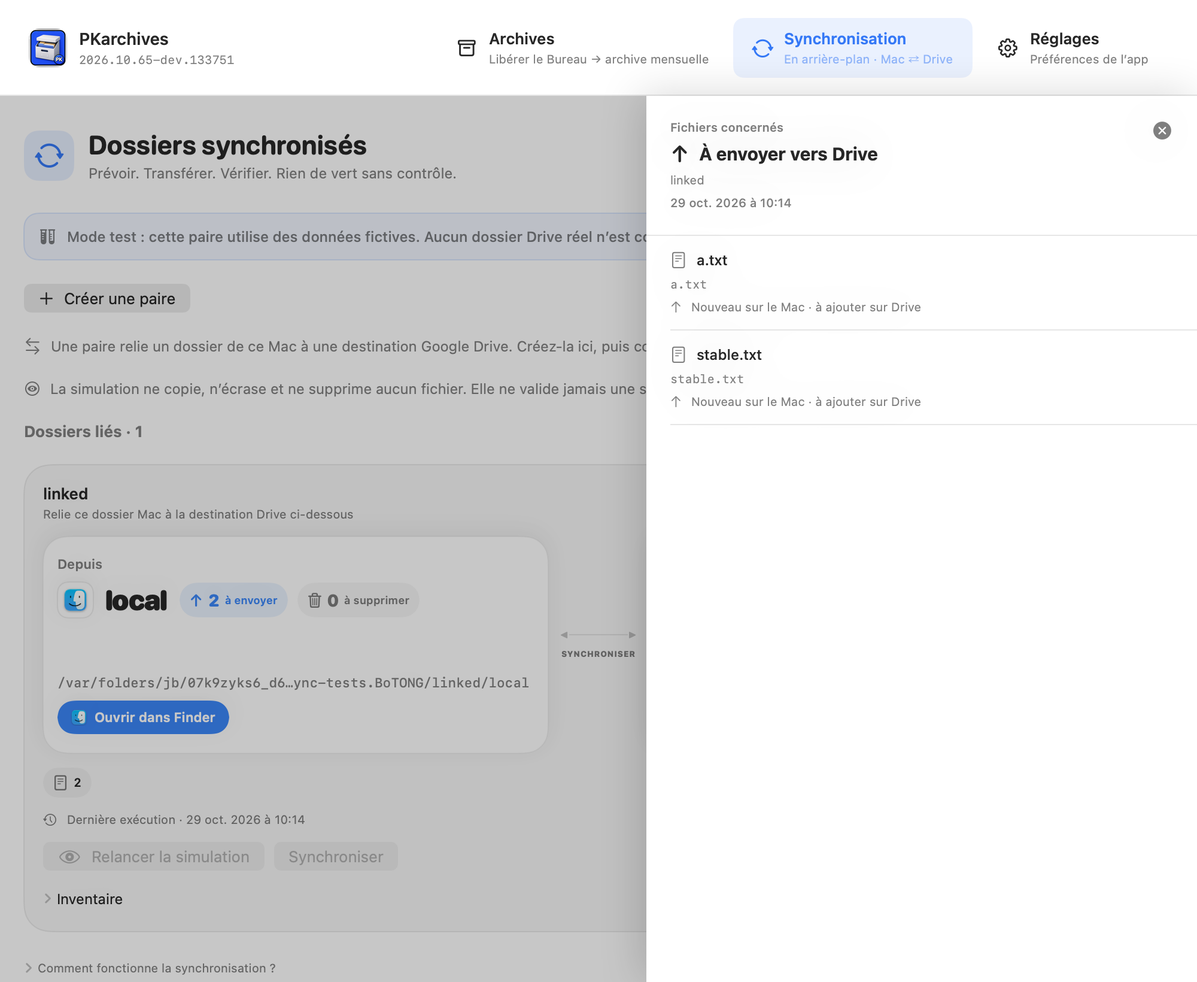
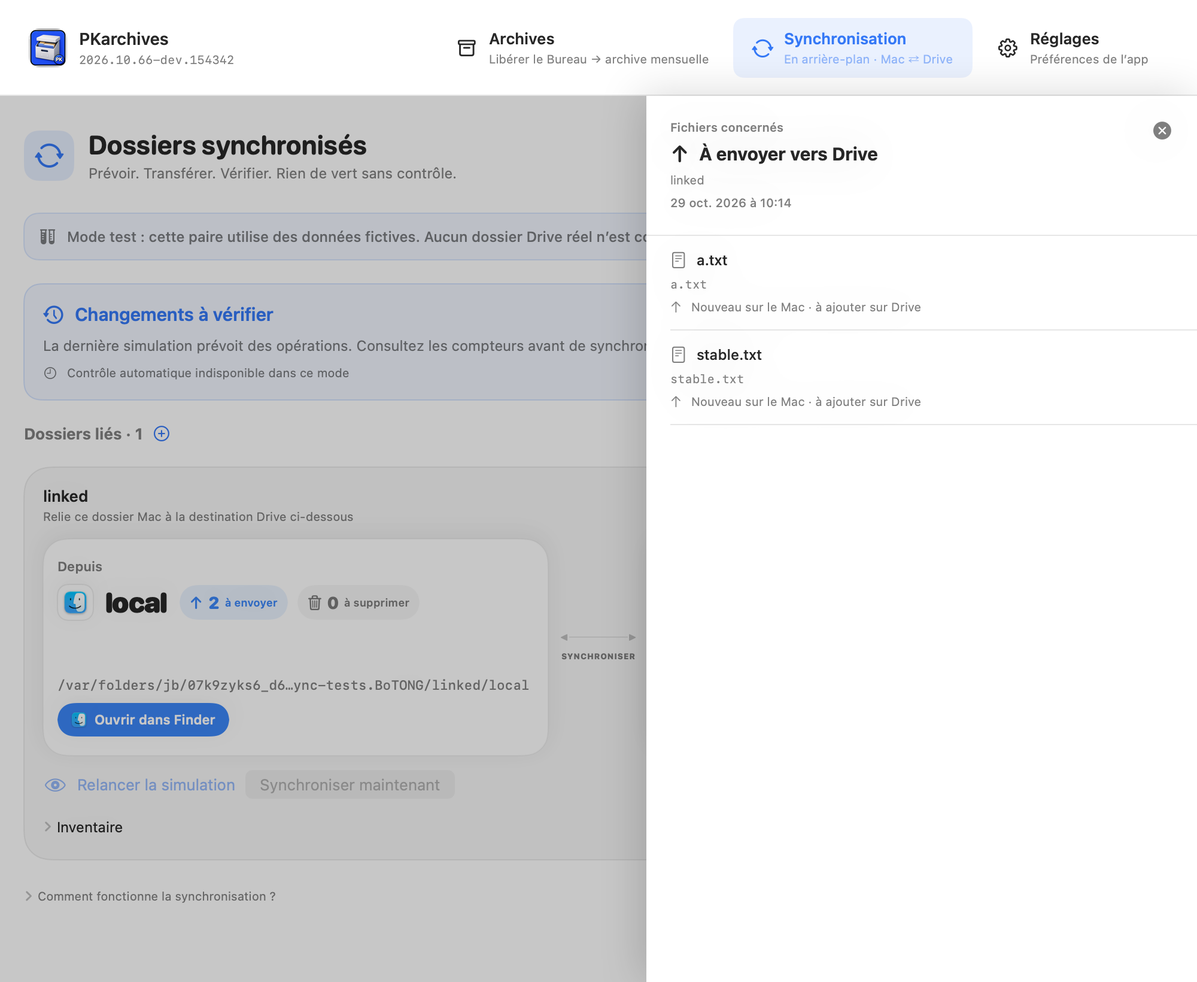
FIX: clarifier le statut et écarter les simulations périmées

diff --git a/src/macos/PKSync.swift b/src/macos/PKSync.swift
@@ -90,6 +90,22 @@ private let syncStrings: [String: [String]] = [
     "pairs": ["Paires", "Pairs", "Parejas", "Paare"],
     "linkedFolders": ["Dossiers liés", "Linked folders", "Carpetas vinculadas", "Verknüpfte Ordner"],
     "viewHistory": ["Voir l’historique", "View history", "Ver historial", "Verlauf anzeigen"],
+    "status.checked": ["À jour au dernier contrôle", "Up to date at last check", "Al día en la última comprobación", "Beim letzten Abgleich aktuell"],
+    "status.checkedNote": ["Les fichiers inclus ont été vérifiés à cette date. Les changements ultérieurs seront contrôlés au prochain passage.", "Included files were verified then. Later changes will be checked on the next pass.", "Los archivos incluidos se verificaron entonces. Los cambios posteriores se comprobarán después.", "Enthaltene Dateien wurden damals geprüft. Spätere Änderungen werden beim nächsten Lauf geprüft."],
+    "status.action": ["Action nécessaire", "Action needed", "Acción necesaria", "Aktion erforderlich"],
+    "status.pending": ["Changements à vérifier", "Changes awaiting check", "Cambios pendientes de comprobar", "Änderungen warten auf Prüfung"],
+    "status.previewChanges": ["La dernière simulation prévoit des opérations. Consultez les compteurs avant de synchroniser.", "The latest preview plans changes. Review the counts before syncing.", "La última simulación prevé cambios. Revise los contadores antes de sincronizar.", "Die letzte Vorschau sieht Änderungen vor. Vor dem Abgleich die Zähler prüfen."],
+    "status.previewOnly": ["Simulation uniquement", "Preview only", "Solo simulación", "Nur Vorschau"],
+    "status.previewOnlyNote": ["Aucun transfert automatique tant qu’une première synchronisation réelle n’a pas été confirmée.", "No automatic transfer until a first real sync is confirmed.", "No hay transferencia automática hasta confirmar la primera sincronización real.", "Keine automatische Übertragung vor Bestätigung des ersten echten Abgleichs."],
+    "status.never": ["Jamais vérifié", "Never verified", "Nunca verificado", "Nie geprüft"],
+    "status.running": ["Synchronisation en cours", "Sync in progress", "Sincronización en curso", "Synchronisierung läuft"],
+    "status.simulating": ["Simulation en cours", "Preview in progress", "Simulación en curso", "Vorschau läuft"],
+    "status.paused": ["Synchronisation en pause", "Sync paused", "Sincronización pausada", "Synchronisierung pausiert"],
+    "status.lastChecked": ["Dernier contrôle vérifié", "Last verified check", "Última comprobación verificada", "Letzter bestätigter Abgleich"],
+    "status.lastTransfers": ["Dernière synchronisation : %d envoyés · %d rapatriés · %d supprimés", "Last sync: %d sent · %d received · %d deleted", "Última sincronización: %d enviados · %d recibidos · %d borrados", "Letzter Abgleich: %d gesendet · %d empfangen · %d gelöscht"],
+    "status.cadence": ["Automatique tant que l’app est ouverte · Mac : 45 s après un changement · Drive : environ chaque heure et au réveil", "Automatic while the app is open · Mac: 45 s after a change · Drive: about hourly and on wake", "Automático con la app abierta · Mac: 45 s tras un cambio · Drive: cada hora y al despertar", "Automatisch bei geöffneter App · Mac: 45 s nach Änderung · Drive: etwa stündlich und nach dem Aufwachen"],
+    "status.cadenceOff": ["Contrôle automatique indisponible dans ce mode", "Automatic checks unavailable in this mode", "Comprobación automática no disponible en este modo", "Automatische Prüfung in diesem Modus nicht verfügbar"],
+    "syncNow": ["Synchroniser maintenant", "Sync now", "Sincronizar ahora", "Jetzt synchronisieren"],
     "resimulate": ["Relancer la simulation", "Re-run preview", "Repetir simulación", "Vorschau erneut"],
     "comparison": ["Comparaison Mac ↔ Drive", "Mac ↔ Drive comparison", "Comparación Mac ↔ Drive", "Vergleich Mac ↔ Drive"],
     "previewOf": ["Comparaison du", "Comparison from", "Comparación del", "Vergleich vom"],
@@ -553,29 +569,37 @@ struct SyncSectionView: View {
                 if let error = engine.storageError {
                     Label(error, systemImage: "exclamationmark.triangle.fill").foregroundStyle(.red).textSelection(.enabled)
                 }
-                HStack {
+                if engine.pairs.isEmpty {
                     Button { editing = SyncPair() } label: { Label(syncText("createPair"), systemImage: "plus") }
                         .buttonStyle(.borderedProminent).disabled(engine.busy || engine.storageError != nil)
-                    Spacer()
-                    Button { engine.syncAll(dryRun: true) } label: { Label(syncText("simulateAll"), systemImage: "eye") }
-                        .disabled(isQAScreen || engine.busy || !engine.pairs.contains(where: { $0.enabled && engine.cooldownUntil(for: $0) == nil }))
-                    Menu {
-                        Button(syncText("all")) { engine.syncAll() }.disabled(isQAScreen || !engine.pairs.contains(where: { $0.enabled && engine.cooldownUntil(for: $0) == nil }))
-                        Button(syncText("retryAll")) { engine.retryFailed() }.disabled(isQAScreen)
-                        if engine.isPaused { Button(syncText("resume")) { engine.resume() } }
-                        else { Button(syncText("pause")) { engine.pauseForHours(1) } }
-                    } label: { Label(syncText("globalActions"), systemImage: "ellipsis") }
+                    Label(syncText("pairSetupHelp"), systemImage: "arrow.left.arrow.right")
+                        .font(.callout).foregroundStyle(.secondary).fixedSize(horizontal: false, vertical: true)
+                    Label(syncText("safe"), systemImage: "eye.circle")
+                        .font(.callout).foregroundStyle(.secondary).fixedSize(horizontal: false, vertical: true)
+                } else {
+                    globalStatus
                 }
-                Label(syncText("pairSetupHelp"), systemImage: "arrow.left.arrow.right")
-                    .font(.callout).foregroundStyle(.secondary).fixedSize(horizontal: false, vertical: true)
-                Label(syncText("safe"), systemImage: "eye.circle")
-                    .font(.callout).foregroundStyle(.secondary).fixedSize(horizontal: false, vertical: true)
                 if engine.busy { progressBanner }
                 HStack {
                     if tab == "pairs" {
                         Text("\(syncText("linkedFolders")) · \(engine.pairs.count)")
                             .font(.headline).foregroundStyle(.secondary)
+                        Button { editing = SyncPair() } label: { Image(systemName: "plus.circle") }
+                            .buttonStyle(.plain).foregroundStyle(Color.accentColor)
+                            .accessibilityLabel(syncText("createPair"))
+                            .disabled(engine.busy || engine.storageError != nil)
                         Spacer()
+                        if engine.pairs.count > 1 {
+                            Menu {
+                                Button(syncText("simulateAll")) { engine.syncAll(dryRun: true) }
+                                Button(syncText("all")) { engine.syncAll() }
+                                Button(syncText("retryAll")) { engine.retryFailed() }
+                                Divider()
+                                if engine.isPaused { Button(syncText("resume")) { engine.resume() } }
+                                else { Button(syncText("pause")) { engine.pauseForHours(1) } }
+                            } label: { Label(syncText("globalActions"), systemImage: "ellipsis") }
+                            .disabled(isQAScreen || engine.busy)
+                        }
                         Button { tab = "history" } label: {
                             Label(syncText("viewHistory"), systemImage: "clock.arrow.circlepath")
                         }.buttonStyle(.plain).foregroundStyle(Color.accentColor)
@@ -643,6 +667,45 @@ struct SyncSectionView: View {
             Button(syncText("remove"), role: .destructive) { if let pair = removing { engine.deletePair(pair.id) } }
             Button(syncText("cancel"), role: .cancel) {}
         } message: { Text(syncText("removeNote")) }
+    }
+
+    private var globalStatus: some View {
+        let enabled = engine.pairs.filter(\.enabled)
+        let failed = engine.storageError != nil || enabled.contains { ["error", "unverified", "interrupted", "rateLimited", "needsResync"].contains(engine.presentationState(for: $0)) }
+        let previewOnly = enabled.contains { $0.previewOnly }
+        let previewChanges = enabled.contains { (engine.previewRun(for: $0.id)?.plan?.totalOps ?? 0) > 0 }
+        let verified = !enabled.isEmpty && !previewChanges && enabled.allSatisfy { engine.presentationState(for: $0) == "verified" }
+        let title: String = engine.busy ? syncText(engine.isDryRun ? "status.simulating" : "status.running")
+            : engine.isPaused ? syncText("status.paused")
+            : failed ? syncText("status.action")
+            : previewOnly ? syncText("status.previewOnly")
+            : verified ? syncText("status.checked")
+            : previewChanges || enabled.contains(where: { $0.lastOutcome == "pending" }) ? syncText("status.pending") : syncText("status.never")
+        let symbol = engine.busy ? "arrow.triangle.2.circlepath" : failed ? "exclamationmark.circle.fill"
+            : verified ? "checkmark.seal.fill" : "clock.arrow.circlepath"
+        let color: Color = failed ? .orange : verified ? .green : .accentColor
+        let lastVerified = enabled.compactMap(\.lastRun).min()
+        let lastReal = enabled.count == 1 ? engine.runs.first(where: { $0.pair.id == enabled[0].id && !$0.dryRun && $0.finished != nil }) : nil
+        return VStack(alignment: .leading, spacing: 9) {
+            Label(title, systemImage: symbol).font(.title3.weight(.semibold)).foregroundStyle(color)
+            if engine.storageError != nil { Text(engine.storageError ?? "").font(.callout).foregroundStyle(.orange) }
+            else if previewOnly { Text(syncText("status.previewOnlyNote")).font(.callout).foregroundStyle(.secondary) }
+            else if verified { Text(syncText("status.checkedNote")).font(.callout).foregroundStyle(.secondary) }
+            else if previewChanges { Text(syncText("status.previewChanges")).font(.callout).foregroundStyle(.secondary) }
+            if let lastVerified {
+                Text("\(syncText("status.lastChecked")) · \(lastVerified.formatted(date: .abbreviated, time: .shortened))")
+                    .font(.caption).foregroundStyle(.secondary)
+            }
+            if let transfers = lastReal?.transfers {
+                Text(String(format: syncText("status.lastTransfers"), transfers.sent, transfers.received, transfers.deleted))
+                    .font(.caption.monospacedDigit()).foregroundStyle(.secondary)
+            }
+            Label(syncText(engine.automaticEnabled ? "status.cadence" : "status.cadenceOff"), systemImage: "clock")
+                .font(.caption).foregroundStyle(.secondary).fixedSize(horizontal: false, vertical: true)
+        }
+        .padding(16).frame(maxWidth: .infinity, alignment: .leading)
+        .background(color.opacity(0.07), in: RoundedRectangle(cornerRadius: 14))
+        .overlay(RoundedRectangle(cornerRadius: 14).stroke(color.opacity(0.19), lineWidth: 1))
     }
 
     private func operationDrawer(_ selection: SelectedSyncOperation) -> some View {
@@ -795,7 +858,7 @@ struct SyncSectionView: View {
     }
     private var pairsView: some View {
         VStack(spacing: 12) {
-            if !engine.pairs.isEmpty && (engine.busy || !engine.queue.isEmpty || engine.inventoryBusy) { queueHeader }
+            if !engine.pairs.isEmpty && (!engine.queue.isEmpty || engine.inventoryBusy) { queueHeader }
             if engine.pairs.isEmpty {
                 VStack(spacing: 14) {
                     Image(systemName: "folder.badge.gearshape").font(.system(size: 36)).foregroundStyle(.secondary).accessibilityHidden(true)
@@ -807,7 +870,8 @@ struct SyncSectionView: View {
         }
     }
     private func pairCard(_ pair: SyncPair) -> some View {
-        let state = engine.presentationState(for: pair)
+        let presentation = engine.presentationState(for: pair)
+        let state = presentation == "verified" && (engine.previewRun(for: pair.id)?.plan?.totalOps ?? 0) > 0 ? "pending" : presentation
         let running = engine.runningPairID == pair.id
         let attention = ["error", "unverified", "interrupted", "rateLimited", "needsResync"].contains(state)
         let plan = engine.previewRun(for: pair.id)?.plan
@@ -826,12 +890,10 @@ struct SyncSectionView: View {
                               onOperation: { selectedOperation = SelectedSyncOperation(pairID: pair.id, kind: $0) })
             if let plan {
                 deletionWarning(plan)
-                typeRow(plan)
             }
-            if running {
-                runningBlock(pair).transition(.opacity.combined(with: .scale(scale: 0.98)))
-            } else {
-                if attention { warningStrip(pair, state: state) } else { metaLine(pair) }
+            if !running {
+                if attention { warningStrip(pair, state: state) }
+                else if engine.pairs.count > 1 { metaLine(pair) }
                 actionsRow(pair).transition(.opacity)
             }
             DisclosureGroup(syncText("inventory"), isExpanded: Binding(
@@ -854,29 +916,6 @@ struct SyncSectionView: View {
             .padding(.horizontal, 7).padding(.vertical, 2)
             .background(Color.secondary.opacity(0.12), in: Capsule())
             .help(syncText("previewOnlyNote"))
-    }
-
-    /// Live execution inside the card: one phase line + thin bar. Full numbers live in the top banner.
-    private func runningBlock(_ pair: SyncPair) -> some View {
-        let progress = engine.runProgress
-        let fraction: Double? = progress.flatMap { $0.bytesTotal > 0 ? min(1, max(0, Double($0.bytesDone) / Double($0.bytesTotal))) : nil }
-        return VStack(alignment: .leading, spacing: 6) {
-            HStack {
-                ProgressView().controlSize(.small)
-                    .accessibilityHidden(true)
-                Text(engine.progressText.isEmpty ? syncText(engine.isDryRun ? "simulating" : "running") : engine.progressText)
-                    .font(.callout.weight(.medium)).lineLimit(1).truncationMode(.tail)
-                Spacer()
-                if let fraction { Text("\(Int(fraction * 100)) %").font(.caption.monospacedDigit()).foregroundStyle(.secondary) }
-                Button(syncText("stop")) { engine.stopRunning() }.controlSize(.small)
-            }
-            if let fraction {
-                ProgressView(value: fraction).controlSize(.small)
-            } else {
-                ProgressView().controlSize(.small)
-            }
-        }.padding(10)
-        .background(Color.accentColor.opacity(0.07), in: RoundedRectangle(cornerRadius: 9))
     }
 
     /// Attention states get one explicit tinted strip instead of scattered caption lines.
@@ -918,9 +957,9 @@ struct SyncSectionView: View {
         HStack(spacing: 8) {
             Button { engine.syncPair(pair.id, dryRun: true) } label: {
                 Label(syncText(engine.previewRun(for: pair.id) == nil ? "simulate" : "resimulate"), systemImage: "eye")
-            }
+            }.buttonStyle(.plain).foregroundStyle(Color.accentColor)
             .disabled(isQAScreen || !pair.enabled || engine.cooldownUntil(for: pair) != nil)
-            Button(syncText(pair.previewOnly || pair.needsResync && pair.direction.usesBisync ? "startSync" : "sync")) {
+            Button(syncText("syncNow")) {
                 if pair.previewOnly || pair.needsResync && pair.direction.usesBisync { merging = pair }
                 else { engine.syncPair(pair.id) }
             }

diff --git a/src/macos/PKSyncEngine.swift b/src/macos/PKSyncEngine.swift
@@ -167,6 +167,14 @@ struct SyncRun: Codable, Identifiable {
     var diagnostic: SyncDiagnostic?
     /// Present for previews: exact per-file comparison used by the UI and the report.
     var plan: PreviewPlan?
+    /// Actual file operations observed in the real rclone log, not the preview estimate.
+    var transfers: SyncTransferSummary?
+}
+
+struct SyncTransferSummary: Codable, Equatable {
+    let sent: Int
+    let received: Int
+    let deleted: Int
 }
 
 enum SyncFailure: LocalizedError {
@@ -395,6 +403,7 @@ final class SyncEngine: ObservableObject {
     var isPaused: Bool { pausedUntil != nil }
     var isDryRun: Bool { active?.dryRun ?? false }
     var busy: Bool { runningPairID != nil }
+    var automaticEnabled: Bool { automatic && storageError == nil && !shuttingDown }
     func cooldownUntil(for pair: SyncPair) -> Date? { cooldowns[pair.remote].flatMap { $0 > Date() ? $0 : nil } }
 
     func validationError(_ pair: SyncPair) -> String? {
@@ -1003,6 +1012,9 @@ final class SyncEngine: ObservableObject {
     private func complete(_ outcome: String, message: String) {
         guard var run = active else { return }
         run.outcome = outcome; run.message = message; run.finished = Date()
+        if !run.dryRun, let progress = runProgress {
+            run.transfers = SyncTransferSummary(sent: progress.pushDone, received: progress.pullDone, deleted: progress.deleteDone)
+        }
         if run.dryRun, outcome == "preview", var plan = activePlan {
             let inventory = inventories[run.pair.id]
             plan.localFiles = inventory?.localFiles
@@ -1050,7 +1062,11 @@ final class SyncEngine: ObservableObject {
     }
     /// Latest preview that carries a per-file comparison, for the pair's card.
     func previewRun(for pairID: UUID) -> SyncRun? {
-        runs.first { $0.pair.id == pairID && $0.plan != nil }
+        // A preview is a point-in-time proposal, not a durable queue of unfinished files.
+        // Never display its counts after a real run has started, even if that run failed.
+        guard let preview = runs.first(where: { $0.pair.id == pairID && $0.plan != nil }),
+              !runs.contains(where: { $0.pair.id == pairID && !$0.dryRun && $0.started >= preview.started }) else { return nil }
+        return preview
     }
     func readableReportURL(for run: SyncRun) -> URL? {
         // Leave historical raw reports intact. Generate a separate, decoded reading copy.

diff --git a/tests/SyncEngineTests.swift b/tests/SyncEngineTests.swift
@@ -216,10 +216,14 @@ struct TestFailure: Error { let message: String }
         } else {
             throw TestFailure(message: "Preview produced no comparison plan")
         }
+        try expect(engine.previewRun(for: pair.id)?.plan != nil, "Fresh preview is not visible")
         try expect(read(engine.disk.journal).contains("Skipped"), "Readable preview contains no planned operation")
         engine.syncPair(pair.id)
         try wait(engine)
         try expect(engine.pairs[0].lastOutcome == "verified", "Push not verified: \(engine.runs[0].message)")
+        try expect(engine.previewRun(for: pair.id) == nil, "Completed sync still displays stale preview operations")
+        try expect(engine.runs[0].transfers?.sent == 2 && engine.runs[0].transfers?.received == 0,
+                   "Real-run summary does not reflect uploaded files")
         try expect(read(dest.appendingPathComponent("sous dossier/été.txt")) == "bonjour 🌍", "UTF8/nested file missing")
         try expect(!fm.fileExists(atPath: dest.appendingPathComponent("node_modules/cache.txt").path), "Exclude ignored")
         try expect(read(URL(fileURLWithPath: engine.runs[0].directory).appendingPathComponent("verification.txt")).contains("= same.txt"), "Missing verification evidence")
@@ -392,6 +396,8 @@ struct TestFailure: Error { let message: String }
         try wait(bidir)
         try expect(bidir.pairs[0].lastOutcome == "verified" && !bidir.pairs[0].needsResync, "First merge failed: \(bidir.runs[0].message)")
         try expect(read(bl.appendingPathComponent("drive.txt")) == "drive" && read(bd.appendingPathComponent("mac.txt")) == "mac", "Merge not bidirectional")
+        try expect((bidir.runs[0].transfers?.sent ?? 0) > 0 && (bidir.runs[0].transfers?.received ?? 0) > 0,
+                   "Bidirectional run summary did not distinguish sent and received files")
         let initialBackups = Array(files(bidir.disk.base.appendingPathComponent("recovery")).values) + Array(files(root.appendingPathComponent("remote/.PKarchives-recovery")).values)
         try expect(initialBackups.contains(Data("initial mac version".utf8)), "Initial-merge loser was not retained")
 

diff --git a/tests/SyncUISnapshot.swift b/tests/SyncUISnapshot.swift
@@ -60,7 +60,22 @@ struct SettingsSectionHeader: View {
         let root = URL(fileURLWithPath: args[1])
         let kind = args.count > 3 ? args[3] : "sync"
         let fixture = kind == "quota" ? "past-quota" : ["linked", "narrow", "drawer"].contains(kind) ? "linked" : "push"
-        let disk = SyncDisk(base: root.appendingPathComponent("\(fixture)/data"), logs: root.appendingPathComponent("\(fixture)/logs"))
+        var fixtureRoot = root.appendingPathComponent(fixture)
+        if kind == "drawer" {
+            // A fresh preview fixture: never show a completed run's obsolete file plan.
+            let scratch = FileManager.default.temporaryDirectory.appendingPathComponent("sync-drawer-\(UUID().uuidString)")
+            try FileManager.default.copyItem(at: fixtureRoot, to: scratch)
+            fixtureRoot = scratch
+            let runsURL = scratch.appendingPathComponent("data/runs.json")
+            let runs = try JSONDecoder().decode([SyncRun].self, from: Data(contentsOf: runsURL))
+            let previews = runs.filter { $0.plan != nil }
+            try JSONEncoder().encode(previews).write(to: runsURL)
+            let pairsURL = scratch.appendingPathComponent("data/sync.json")
+            var pairs = try JSONDecoder().decode([SyncPair].self, from: Data(contentsOf: pairsURL))
+            for i in pairs.indices { pairs[i].lastOutcome = "pending"; pairs[i].lastRun = nil }
+            try JSONEncoder().encode(pairs).write(to: pairsURL)
+        }
+        let disk = SyncDisk(base: fixtureRoot.appendingPathComponent("data"), logs: fixtureRoot.appendingPathComponent("logs"))
         // Status captures run read-only `rclone size` counts on the fixture remotes; every other
         // kind keeps the sentinel binary that can never launch a transfer.
         var inventoryBinary: String? = nil

diff --git a/README.md b/README.md
@@ -66,12 +66,12 @@ des menus. Pour compiler soi-même : `./scripts/build.sh`.
 Le nouveau mode est disponible dans les sources et la build Dev, **pas encore dans les téléchargements Stable ci-dessous**. L’archivage du Bureau reste un mode séparé ; la CLI/TUI ne propose pas encore la synchronisation.
 
 1. L’app démarre sur **Archives**, premier onglet (**⌘1**), pour le nettoyage mensuel du Bureau. La navigation **Archives / Synchronisation / Réglages** est regroupée à droite, séparée du titre PKarchives, avec le même format pour les trois boutons. Choisir **Synchronisation**, identifié « En arrière-plan » (**⌘2**), puis **Créer une paire**. Les tâches de synchro continuent indépendamment de l’onglet affiché. La liste **Dossiers liés** montre les dossiers Mac reliés à Drive ; **Voir l’historique** ouvre les rapports sans sélecteur segmenté.
-2. L’onglet **Paires** montre la **file d’attente** quand une exécution tourne, puis pour chaque paire (exécution en cours avec progression, paires en attente dans l’ordre) puis, pour chaque paire : état actuel, mode, dernière exécution, dernier contrôle vérifié, prochaine tentative, et un **inventaire**. Une simulation produit une **comparaison Mac ↔ Drive** : fichiers identiques non touchés, à envoyer, à rapatrier, suppressions de chaque côté et conflits, avec un verdict explicite et le détail fichier par fichier. L’**écart** d’inventaire est mis en évidence : « Alignés » ou delta orange avec une **estimation de durée** à 4 Mo/s de référence, explicitement présentée comme une approximation ne remplaçant pas la simulation. Le comptage respecte l’attente quota Google (distant différé 15 min après un refus) et ne lance jamais un second rclone pendant un transfert ; les comptages persistent entre redémarrages.
+2. L’écran affiche d’abord un **statut global** : dernier contrôle vérifié (daté, pas une garantie permanente), changements à vérifier, simulation seule, pause, exécution ou action nécessaire. Il indique la cadence réelle pendant que l’app est ouverte : changements Mac après 45 s d’attente, Drive environ chaque heure et au réveil. Pour chaque paire, **Simuler** prépare la comparaison sans toucher aux fichiers ; **Synchroniser maintenant** force une exécution réelle (première fusion confirmée explicitement). Les compteurs d’une simulation disparaissent dès qu’une exécution réelle démarre : une ancienne simulation ne représente jamais les transferts encore à faire. Le bilan d’une nouvelle exécution indique séparément les fichiers effectivement envoyés, rapatriés et supprimés. L’inventaire détaillé reste replié.
 2. Dans le formulaire **Créer une paire**, choisir un dossier Mac dédié et donner un nom à la paire. Dans **Destination sur Google Drive**, laisser la connexion rclone habituelle (`gdrive`), cliquer **Ouvrir Google Drive**, ouvrir le dossier de destination, puis copier son **adresse complète depuis la barre du navigateur** et la coller dans **Lien du dossier**. Exemple : `https://drive.google.com/drive/folders/IDENTIFIANT_DU_DOSSIER`. L’app extrait l’identifiant : ne pas coller le nom du dossier, `gdrive:gdrive` ou le lien d’un fichier. Le navigateur doit être connecté au même compte Google que la connexion rclone ; coller un lien ne donne pas de droits supplémentaires. Enregistrer crée la paire, sans lancer de transfert.
    La méthode **Chemin rclone (avancé)** accepte encore un chemin relatif comme `Sync/Documents`, sans préfixe `gdrive:`. Ce chemin part de la racine du remote, **pas** du dossier d’archivage `PKARCHIVES_DRIVE_FOLDER_ID`. La configuration rclone n’est pas modifiée par la sélection d’un lien.
 3. Choisir **deux sens**, **Mac vers Drive** ou **Drive vers Mac**, les exclusions et la règle de conflit.
-4. **Simulation uniquement** est activé par défaut pour chaque nouvelle paire : les déclenchements automatiques et globaux restent simulés. **Simuler · dry run** et **Tout simuler** sont aussi disponibles à tout moment. Les fichiers des deux côtés et les listings bisync actifs ne sont pas modifiés. Seuls des rapports et des listings de simulation isolés sont écrits localement. La simulation ne déclare jamais une sauvegarde vérifiée et n’active pas les transferts réels.
-5. Examiner **Activité → Voir le rapport**, puis confirmer un lancement réel pour cette paire (ou désactiver « Simulation uniquement » dans ses réglages). La première fusion bidirectionnelle demande toujours une confirmation explicite.
+4. **Simulation uniquement** est activé par défaut pour chaque nouvelle paire : les déclenchements automatiques et globaux restent simulés. **Simuler** reste disponible à tout moment, **Tout simuler** dans le menu global lorsqu’il existe plusieurs paires. Les fichiers des deux côtés et les listings bisync actifs ne sont pas modifiés. Seuls des rapports et des listings de simulation isolés sont écrits localement. La simulation ne déclare jamais une sauvegarde vérifiée et n’active pas les transferts réels.
+5. Examiner les compteurs et leurs tiroirs de détail, puis choisir **Synchroniser maintenant** pour cette paire (ou désactiver « Simulation uniquement » dans ses réglages). La première fusion bidirectionnelle demande toujours une confirmation explicite. **Voir l’historique** conserve les rapports et les relances.
 
 ![Dossiers liés et accès à l’historique dans la build Dev, avec données temporaires de test](store/media/04-sync-dev.png)
 
@@ -80,8 +80,6 @@ Le nouveau mode est disponible dans les sources et la build Dev, **pas encore da
 ![Détail des fichiers à envoyer ouvert depuis leur compteur, avec données de test](store/media/09-sync-detail-dev.png)
 
 ![Choix du dossier Drive par collage de son lien complet, avec instructions et ouverture de Drive](store/media/05-drive-folder-dev.png)
-
-![Vue Paires : comparaison Mac ↔ Drive dans la carte de la paire](store/media/07-sync-comparison-dev.png)
 
 **Suivi d’exécution** : pendant une synchronisation, un bandeau affiche le sens en cours, les fichiers faits / prévus, le volume et le pourcentage, la vitesse, le temps écoulé et le temps restant estimé par rclone, ainsi que les opérations prévues et réalisées par sens (↑ push, ↓ pull, suppressions). Pendant une simulation, aucun transfert n’est effectué mais la comparaison et ses volumes restent visibles.
 

diff --git a/README_en.md b/README_en.md
@@ -66,12 +66,12 @@ To build it yourself: `./scripts/build.sh`.
 The new mode is available in the sources and Dev build, **not yet in the Stable downloads below**. Desktop archiving remains a separate mode; the CLI/TUI does not offer folder sync yet.
 
 1. The app starts on **Archives**, the first tab (**⌘1**), for monthly Desktop cleanup. **Archives / Synchronization / Settings** are grouped on the right, separate from the PKarchives title, with matching styling for all three buttons. Choose **Synchronization**, marked “In the background” (**⌘2**), then **Create a pair**. Sync jobs continue independently of the displayed tab. **Linked folders** lists the Mac folders connected to Drive; **View history** opens reports without a segmented tab control.
-2. The **Pairs** view shows the **queue** while a run is active, then for each pair (current run with progress, waiting pairs in order) then, for each pair: current state, mode, last run, last verified check, next attempt, and an **inventory**. A preview produces a **Mac ↔ Drive comparison**: identical untouched files, to send, to bring back, deletions on each side and conflicts, with an explicit verdict and per-file details. The inventory **gap** is highlighted: “Aligned” or an orange delta with a **duration estimate** at a 4 MB/s reference, explicitly an approximation that does not replace a preview. Counting respects the Google quota cooldown (remote deferred 15 min after a refusal) and never starts a second rclone during a transfer; counts persist across restarts.
+2. The screen starts with an **overall status**: dated last verified check (not a permanent guarantee), changes awaiting a check, preview-only mode, pause, active run or action needed. It shows the actual cadence while the app is open: Mac changes after a 45-second debounce, Drive about hourly and on wake. For each pair, **Preview** compares without modifying files; **Sync now** forces a real run (the initial merge requires explicit confirmation). Preview counts disappear as soon as a real run starts: an old preview is never presented as pending transfers. New real runs report the actual files sent, received and deleted separately. Detailed inventory stays collapsed.
 2. In the **Create a pair** form, choose a dedicated Mac folder and name the pair. Under **Google Drive destination**, keep the usual rclone connection (`gdrive`), click **Open Google Drive**, open the destination folder, copy its **full address from the browser bar**, and paste it into **Folder link**. Example: `https://drive.google.com/drive/folders/FOLDER_IDENTIFIER`. The app extracts the ID: do not paste the folder name, `gdrive:gdrive` or a file link. The browser must use the same Google account as the rclone connection; pasting a link does not grant additional access. Saving creates the pair without starting a transfer.
    **rclone path (advanced)** still accepts a relative path such as `Sync/Documents`, without the `gdrive:` prefix. It starts at the remote root, **not** the `PKARCHIVES_DRIVE_FOLDER_ID` archive folder. Selecting a folder link does not change rclone configuration.
 3. Choose **two-way**, **Mac to Drive** or **Drive to Mac**, exclusions and a conflict policy.
-4. **Preview only** is enabled by default for every new pair: automatic and global runs remain previews. **Preview · dry run** and **Preview all** are also available at any time. Neither side’s files nor the live bisync listings are changed. Only local reports and isolated preview listings are written. A preview never declares a backup verified or enables real transfers.
-5. Inspect **Activity → View report**, then confirm a real run for this pair (or disable “Preview only” in its settings). The first two-way merge always requires explicit confirmation.
+4. **Preview only** is enabled by default for every new pair: automatic and global runs remain previews. **Preview** remains available at any time, with **Preview all** in the global menu when multiple pairs exist. Neither side’s files nor the live bisync listings are changed. Only local reports and isolated preview listings are written. A preview never declares a backup verified or enables real transfers.
+5. Inspect the counters and their detail drawers, then choose **Sync now** for this pair (or disable “Preview only” in its settings). The first two-way merge always requires explicit confirmation. **View history** retains reports and retries.
 
 ![Linked folders and history access in the Dev build with temporary sample data](store/media/04-sync-dev.png)
 
@@ -80,8 +80,6 @@ The new mode is available in the sources and Dev build, **not yet in the Stable 
 ![File details opened directly from the send counter with sample data](store/media/09-sync-detail-dev.png)
 
 ![Drive folder selection by pasting its full link, with instructions and an Open Drive button](store/media/05-drive-folder-dev.png)
-
-![Pairs view: Mac ↔ Drive comparison inside the pair card](store/media/07-sync-comparison-dev.png)
 
 **Run feedback**: during a sync, a banner shows the current direction, files done / planned, volume and percentage, speed, elapsed time and rclone’s estimated remaining time, plus planned and completed operations per direction (↑ push, ↓ pull, deletions). During a preview nothing is transferred, but the comparison and its volumes stay visible.
 

diff --git a/CHANGELOG.md b/CHANGELOG.md
@@ -4,7 +4,7 @@
 
 ## TODO — Roadmap
 
-Statut : `2026.10.65` (contenu et boutons alignés dans les deux cartes)
+Statut : `2026.10.66` (statut de synchronisation et plan de simulation non périmé)
 
 ### Sécurité & Publication GitHub
 - [x] Supprimer les binaire compilé et .app du repo
@@ -18,6 +18,14 @@ Statut : `2026.10.65` (contenu et boutons alignés dans les deux cartes)
 - [x] Dashboard SwiftUI et TUI avec statistiques et historique
 - [x] Graphique d'activité des archivages
 - [x] Navigation paramètres/historique dans les deux interfaces
+
+### [2026.10.66] - 2026-10-29
+#### Fixed
+- Une simulation ne reste plus affichée comme une liste d’opérations à effectuer après le lancement d’une synchronisation réelle ; les compteurs sont recalculés à la prochaine simulation.
+- Chaque nouvelle exécution réelle conserve le nombre de fichiers effectivement envoyés, rapatriés et supprimés, indépendamment des estimations de la simulation.
+#### Changed
+- Un bandeau de statut global annonce le dernier contrôle vérifié, les changements en attente, la pause, les erreurs ou le mode simulation uniquement, ainsi que le rythme automatique réel (45 s après changement local, environ une heure pour Drive et au réveil, pendant que l’app est ouverte).
+- L’écran retire les explications et commandes globales redondantes pour une paire existante ; la paire conserve « Simuler » et une action principale « Synchroniser maintenant ». Les actions groupées n’apparaissent qu’avec plusieurs paires.
 
 ### [2026.10.65] - 2026-10-29
 #### Fixed
